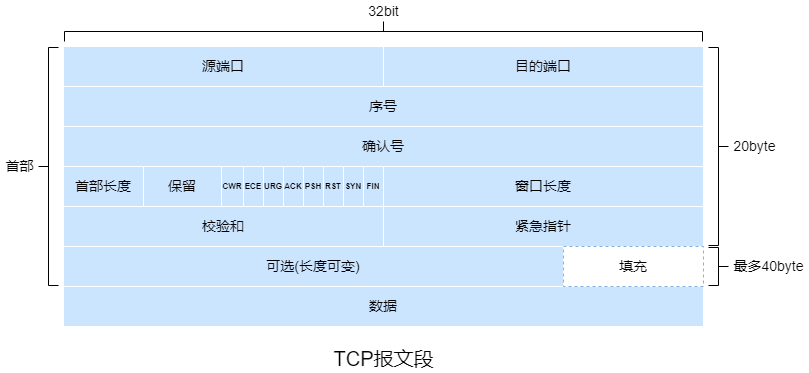
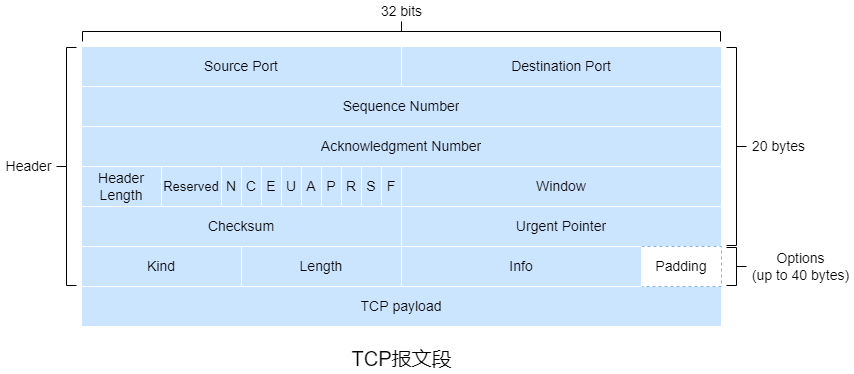
compute networking

diff --git a/compute-networking/compute-networking.md b/compute-networking/compute-networking.md
@@ -274,7 +274,7 @@ server: Windows-Azure-Blob/1.0 Microsoft-HTTPAPI/2.0
 
 ##### 2.3.1 SMTP
 
-		SMTP是因特网电子邮件中主要的应用层协议。它限制了邮件的报文(不只是首部)只能采用7-bit ASCII表示，若报文包含非7-bit ASCII字符或二进制数据，需要进行7 bit ASCII编码。
+		SMTP是因特网电子邮件中主要的应用层协议。它限制了邮件的报文(不只是首部)只能采用7-bit ASCII表示，若报文包含非7-bit ASCII字符或二进制数据，需要进行7-bit ASCII编码。
 
 		SMTP是**推协议**，TCP连接是发送端发起的。
 
@@ -366,7 +366,7 @@ Subject: subject
 
 		DNS报文分为查询和应答报文，报文格式相同。
 
-		﹡在首部区域，第一个字段占16 bit，用于标识该查询，该字段会被复制到应答报文中来匹配请求。第二个字段有若干1 bit的标志位。0/1标识查询/应答报文。若请求的是权威DNS服务器则应答报文会设置[权威]标志位。若客户端在DNS服务器没有资源记录时希望它执行递归查询则会设置[希望递归]标志位。若DNS服务器支持递归查询则会在应答报文设置[递归可用]标志位。剩下四个字段表示后四个区域数据的数量。
+		﹡在首部区域，第一个字段占16位，用于标识该查询，该字段会被复制到应答报文中来匹配请求。第二个字段有若干1 位的标志位。0/1标识查询/应答报文。若请求的是权威DNS服务器则应答报文会设置[权威]标志位。若客户端在DNS服务器没有资源记录时希望它执行递归查询则会设置[希望递归]标志位。若DNS服务器支持递归查询则会在应答报文设置[递归可用]标志位。剩下四个字段表示后四个区域数据的数量。
 
 		﹡问题区域包名称字段和类型字段，名称字段是待查询的主机名称，类型字段对应资源记录中的类型字段。
 
@@ -463,7 +463,7 @@ $$
 
 		多路复用需要**源端口号字段**^【套接字的唯一标识符】^和**目的端口号字段**^【报文段中标识目标套接字的字段】^。
 
-		端口号是一个16bit的数。0~1023之间的端口称为**周知端口号**。
+		端口号是一个16位的数。0~1023之间的端口称为**周知端口号**。
 
 		**序号**用于为从发送端流向接收端的分组按序编号。
 
@@ -479,7 +479,7 @@ $$
 
 ![udp_segment_structure](/img/udp_segment_structure.png)
 
-		UDP首部有四个字段，每个字段由两个字节构成。
+		UDP首部有四个字段，每个字段由2字节构成。
 
 		﹡长度字段即报文段中的字节数(首部+应用数据)。
 
@@ -507,7 +507,7 @@ $$
 
 ##### 3.2.2 rdt2.0
 
-		通过**肯定确认**或**否定确认**来让发送端知道那些内容被正确接收或接收有误需要重传的可靠传输协议称为**自动重传请求**协议。自动重传请求协议还需要==差错检测==、==接收端反馈==^【用1bit来表示，0是NAK，1是ACK】^和==重传==来处理比特差错的情况。
+		通过**肯定确认**或**否定确认**来让发送端知道那些内容被正确接收或接收有误需要重传的可靠传输协议称为**自动重传请求**协议。自动重传请求协议还需要==差错检测==、==接收端反馈==^【用1位来表示，0是NAK，1是ACK】^和==重传==来处理比特差错的情况。
 
 ![rdt2.0](/img/rdt2.0.png)
 
@@ -523,7 +523,7 @@ $$
 
 ![rdt2.1](/img/rdt2.1.png)
 
-		rdt2.1是rdt2.0的修订版，rdt2.1的发送端和接收端FSM的状态数都是以前的两倍，因为需要反映出目前分组的序号。rdt2.1使用了接收端到发送端的ACK/NAK。当收到失序的分组时，接收端回传ACK。当收到受损的分组时，接收端回传NAK。
+		rdt2.1是rdt2.0的修订版，rdt2.1的发送端和接收端FSM的状态数都是以前的两倍，因为需要反映出目前分组的序号。rdt2.1使用了接收端到发送端的ACK/NAK。当收到乱序的分组时，接收端回传ACK。当收到受损的分组时，接收端回传NAK。
 
 ![rdt2.2](/img/rdt2.2.png)
 
@@ -567,7 +567,7 @@ $$
 
 		当接收端收到序号为$n$的分组且上次交付给上层的分组的序号是$n-1$时会对分组$n$回传ACK，否则丢弃该分组并对最近交付给上层的分组回传ACK。
 
-		接收端会丢失所有失序分组，因为这些分组还会重传。
+		接收端会丢失所有乱序分组，因为这些分组还会重传。
 
 ![gbn_operation](/img/gbn_operation.png)
 
@@ -577,7 +577,7 @@ $$
 
 		发送端仅重传那些在接收方可能丢失/受损的分组，也可能收到窗口内某些分组的ACK。
 
-		接收端将确认一个正确接收的分组而不管是否按序，失序的分组将被缓存，当所有的失序分组都被接收后再一起交付给上层。
+		接收端将确认一个正确接收的分组而不管是否按序，乱序的分组将被缓存，当所有的乱序分组都被接收后再一起交付给上层。
 
 		当上层调用`rdt_send()`时，发送端检测可用于分组的序号是否在窗口内。若在窗口内则产生一个分组发送，反之则反馈上层。每个分组都有一个计时器。当收到ACK时，若ACK对应的分组序号在窗口内则将该分组标记为已确认，若ACK对应的分组序号等于$send\_base$则将窗口移动至待确认的最小序号处。窗口移动后且窗口内存在待发送的分组，这些分组将被发送。
 
@@ -599,11 +599,73 @@ $$
 
 		进程间建立TCP连接后，双方都可以发送/接收报文段，故TCP是**全双工服务**。
 
-		客户端先发送一个特殊的报文段，服务端用另一个特殊报文段来响应，最后，客户端用第三个特殊报文段作为响应，这种建立连接的过程被称为**三次握手**。前两个报文段不承载有效载荷，第三个报文段可以承载有效载荷。
+		客户端先发送一个特殊的报文段，服务端用另一个特殊报文段来响应，最后，客户端用第三个特殊报文段作为响应，这种建立连接的过程被称为**三次握手**。前2个报文段不承载有效载荷，第三个报文段可以承载有效载荷。
+
+		**最大传输单元**指从源到目的地所有链路上发送的最大链路层帧。**最大报文段长度**是报文段中有效载荷的最大长度。最大传输单元一般是1500字节，TCP/IP首部的长度一般是40字节，故最大报文段长度一般是1460字节。
+
+		一旦受到3个冗余ACK，TCP就执行**快速重传**。
 
 ##### 3.3.1 TCP报文段结构
 
-		
+![tcp_segment_structure](/img/tcp_segment_structure.png)
+
+		TCP报文段包括16位**源端口**、16位**目的端口**、32位**序号**、32位**确认序号**、4位**首部长度**、3位保留字段、9个标志位、16位**窗口长度**、16位**校验和**、16位**紧急指针**以及最多40字节的的选项字段。
+
+		TCP将数据看成一个无结构且有序的字节流，通过字节流确定序号，序号是==报文段首字节的编号==。
+
+		确认号是==按序应该接收的报文段首字节的编号==。TCP只确认报文段有效载荷中到第一个丢失字节为止的字节，故TCP提供**累积确认**。当有效载荷为空时吗，确认号称为被**捎带**在报文段中。
+
+		9个标志位中前3个标志位是**ECN**，后6个标志是控制位。
+
+		**NS(N)**通常用于防止TCP发送端的标记数据包被意外或恶意地隐藏。
+
+		**CWR(C)**为1时通知对方拥塞窗口已经缩小。
+
+		**ECE(E)**为1时通知对方从对方到我方的网络出现拥塞。
+
+		**Urgent/URG(U)**为1时表示高优先级报文段，紧急指针生效。
+
+		**ACK(A)**为1时表示确认序号生效，报文段成功接收。
+
+		**Push/PSH(P)**为1时表示应该立即将该报文段交给应用层而不用等待缓存区填满。
+
+		**Reset/RST(R)**为1时表示重置连接。
+
+		**SYN(S)**为1时表示三次握手中建立连接。
+
+		**FIN(F)**为1时表示四次挥手中断开连接。
+
+		选项字段包括8位Kind、可变的Length以及可变的Info。
+
+| Kind字段值 | Length字段值 | Info字段长度 | 名称                       | 含义           |
+| ---------- | ------------ | ------------ | -------------------------- | -------------- |
+| 0          | 1            |              | 选项表结束(EOP)            |                |
+| 1          | 1            |              | 空操作(NOP)                |                |
+| 2          | 4            | 2字节        | 最大报文段长度(MSS)        |                |
+| 3          | 3            | 1字节        | 窗口扩大系数(WSOPT)        | 窗口长度扩展   |
+| 4          | 2            |              | 选择性确认(SACK-Premitted) | 表示支持SACK   |
+| 5          | 可变         |              | 选择性确认(SACK)           | 收到的乱序数据 |
+| 8          | 10           |              | TSPOT                      | 时间戳         |
+| 19         | 18           |              | TCP-MD5                    | MD5认证        |
+| 28         | 4            |              | User Timeout(UTO)          | 超时时间       |
+| 29         | 可变         |              | TCP-AO                     | 认证算法       |
+| 253/254    | 可变         |              | Experimental               | 保留           |
+
+##### 3.3.2 超时
+
+		SampleRTT表示报文段从发送(交付给IP)到收到该报文段的确认所需时间。TCP不会为重传的报文段测量SampleRTT，仅仅为只需要传输一次的报文段测量。
+
+		EstimatedRTT表示SampleRTT的平均值。
+$$
+EstimatedRTT=(1-\alpha)\times EstimatedRTT+ \alpha \times SampleRTT(\alpha =\frac{1}{8})
+$$
+		DevRTT表示SampleRTT偏离EstimatedRTT的程度。
+$$
+DevRTT=(1-\beta)\times DevRTT+\beta \times |SampleRTT-EstimatedRTT|(\beta=\frac{1}{4})
+$$
+		EstimatedRTT和DevRTT的计算方式是**指数加权移动平均**。
+
+		TimeoutInterval表示超时时间，公式为$TimeoutInterval=EstimatedRTT+4\times DevRTT$。		
 
 ### 附录1 专业术语
 
@@ -653,6 +715,8 @@ $$
 >
 > **congestion control** 拥塞控制
 >
+> **congestion window reduced(CWR)**  拥塞窗口减少
+>
 > **connection-oriented** 面向连接的
 >
 > **content distribution network(CDN)** 内容分发网络
@@ -689,6 +753,8 @@ $$
 >
 > **dynamic adaptive streaming over HTTP(DASH)** 经HTTP的动态适应流
 >
+> **ECN-Echo(ECE)** 显示拥塞提醒回应
+>
 > **edge router** 边缘路由器
 >
 > **encapsulation** 封装
@@ -705,7 +771,13 @@ $$
 >
 > **event-based programming** 基于事件的编程
 >
+> **explicit congestion notification(ECN)** 显示拥塞通知
+>
 > **extend simple mail transfer protocol(ESMTP)** 扩展简单邮件传输协议
+>
+> **exponential weighted moving average(EWMA)** 指数加权移动平均
+>
+> **fast retransmit** 快速重传
 >
 > **fiber to the home(FTTH)** 光纤到户
 >
@@ -793,6 +865,8 @@ $$
 >
 > **nodal processing delay** 节点处理时延
 >
+> **nonce sum(NS)** 随机数和
+>
 > **non-persistent connection** 非持续连接
 >
 > **open system interconnection reference model(OSI model)** 开放式系统互联网通信参考模型
@@ -829,13 +903,15 @@ $$
 >
 > **persistent connection** 持续连接
 >
+> **piggyback** 捎带  
+>
 > **pipelining** 流水线
 >
 > **point of presence(POP)** 存在点
 >
 > **point-to-point** 点对点
 >
-> **positive acknowledgment(ACK)** 肯定确认
+> **acknowledgment(ACK)** 肯定确认
 >
 > **post office protocol-version 3(POP3)** 第三版邮局
 >
@@ -874,6 +950,8 @@ $$
 > **secure shell(SSH)** 安全外壳
 >
 > **segment** 报文段
+>
+> **selective acknowledgement(SACK)** 选择性确认
 >
 > **selective repeat(SR)** 选择重传
 >
